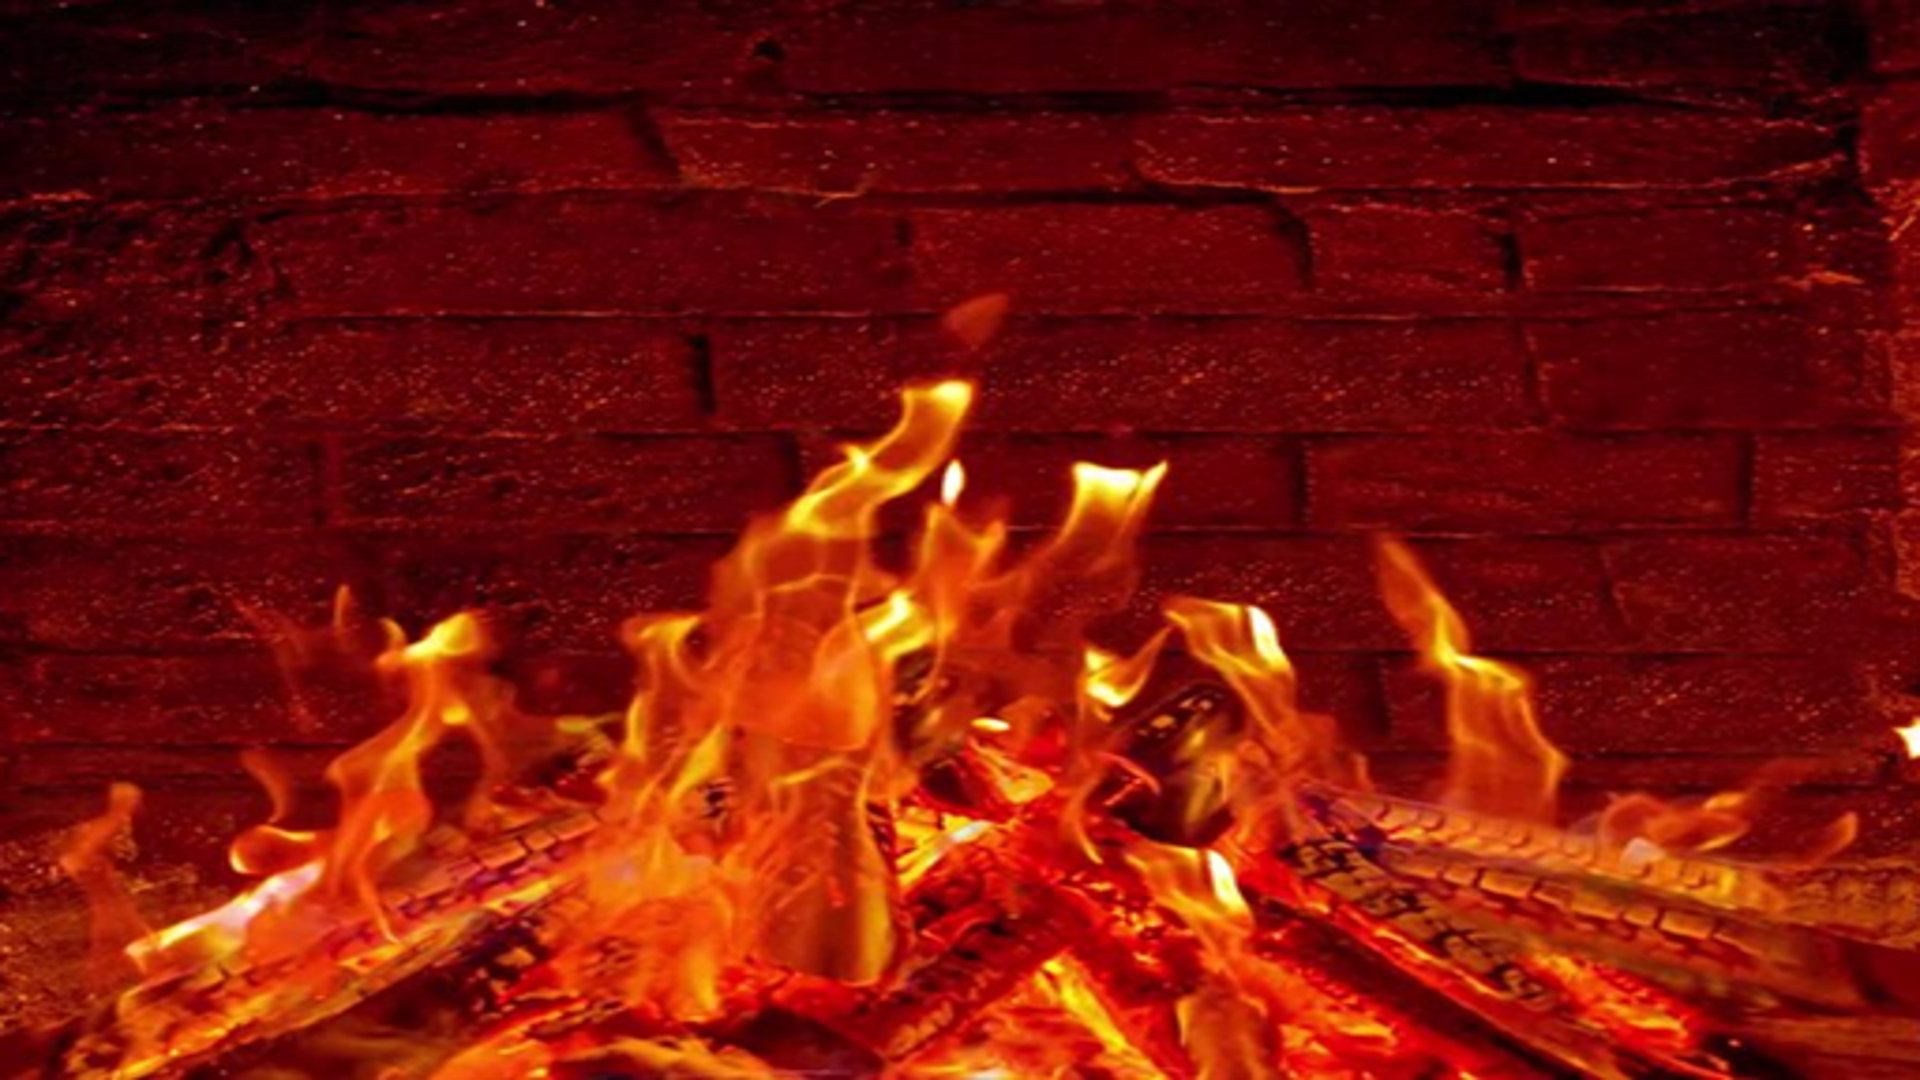
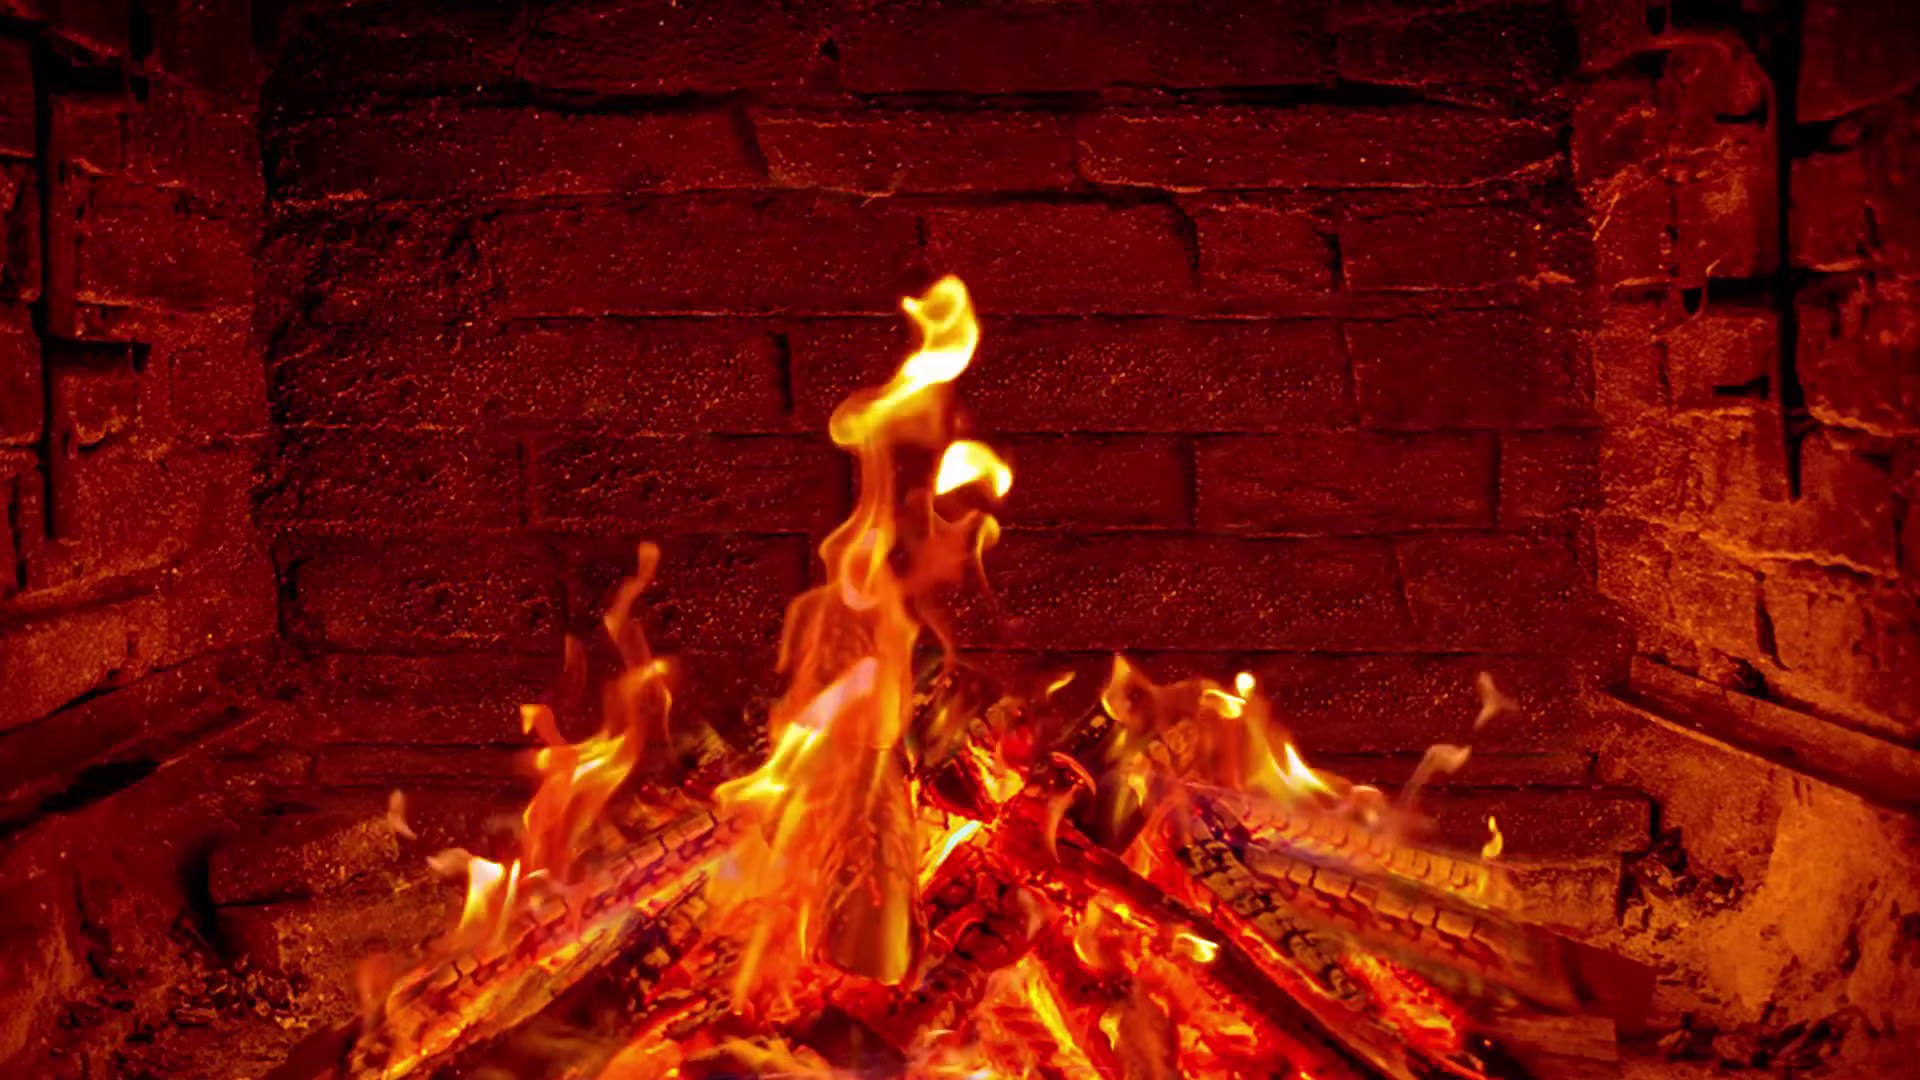
Quitar video de fogata al reproducir para no dejar fondo negro

diff --git a/app.js b/app.js
@@ -52,13 +52,18 @@
   if (!fire.paused && fire.readyState > 2) fireOn();
   fire.play().catch(function () {});
 
-  // On Tizen, YouTube steals the only video decoder. Keep a still underneath and pause the fire clip while music plays.
+  // On Tizen, YouTube steals the only video decoder and the <video> layer goes black on top of everything.
+  // Drop the fire clip entirely while music plays; the still on #stage stays visible.
   function fireForMusic(on) {
+    document.body.classList.toggle('music-on', !!on);
     if (!fire) return;
     if (on) {
-      fire.pause();
+      try { fire.pause(); } catch (e) {}
       fire.classList.remove('on');
-    } else {
+      fire.removeAttribute('src');
+      try { fire.load(); } catch (e) {}
+    } else if (!fire.getAttribute('src')) {
+      fire.src = 'fogata.webm';
       fire.play().catch(function () {});
     }
   }

diff --git a/index.html b/index.html
@@ -9,7 +9,7 @@
   <link rel="preconnect" href="https://fonts.googleapis.com">
   <link rel="preconnect" href="https://fonts.gstatic.com" crossorigin>
   <link href="https://fonts.googleapis.com/css2?family=Outfit:wght@300;400;500;600;700;800&display=swap" rel="stylesheet">
-  <link rel="stylesheet" href="styles.css?v=9">
+  <link rel="stylesheet" href="styles.css?v=10">
 </head>
 <body>
 <div id="stage">
@@ -76,6 +76,6 @@
 
   <div id="toast"></div>
 </div>
-<script src="app.js?v=9"></script>
+<script src="app.js?v=10"></script>
 </body>
 </html>

diff --git a/styles.css b/styles.css
@@ -32,6 +32,9 @@ body.tv { cursor: none; }
   opacity: 0; transform: scale(1.04); transition: opacity 2s ease, transform 12s ease-out;
 }
 #fire.on { opacity: 1; transform: scale(1); }
+/* Tizen paints <video> as a hardware layer that ignores opacity — must display:none or it stays black over the still. */
+body.music-on #fire { display: none !important; }
+body.music-on .shade { opacity: .22; }
 
 .shade {
   position: absolute; inset: 0; pointer-events: none;
